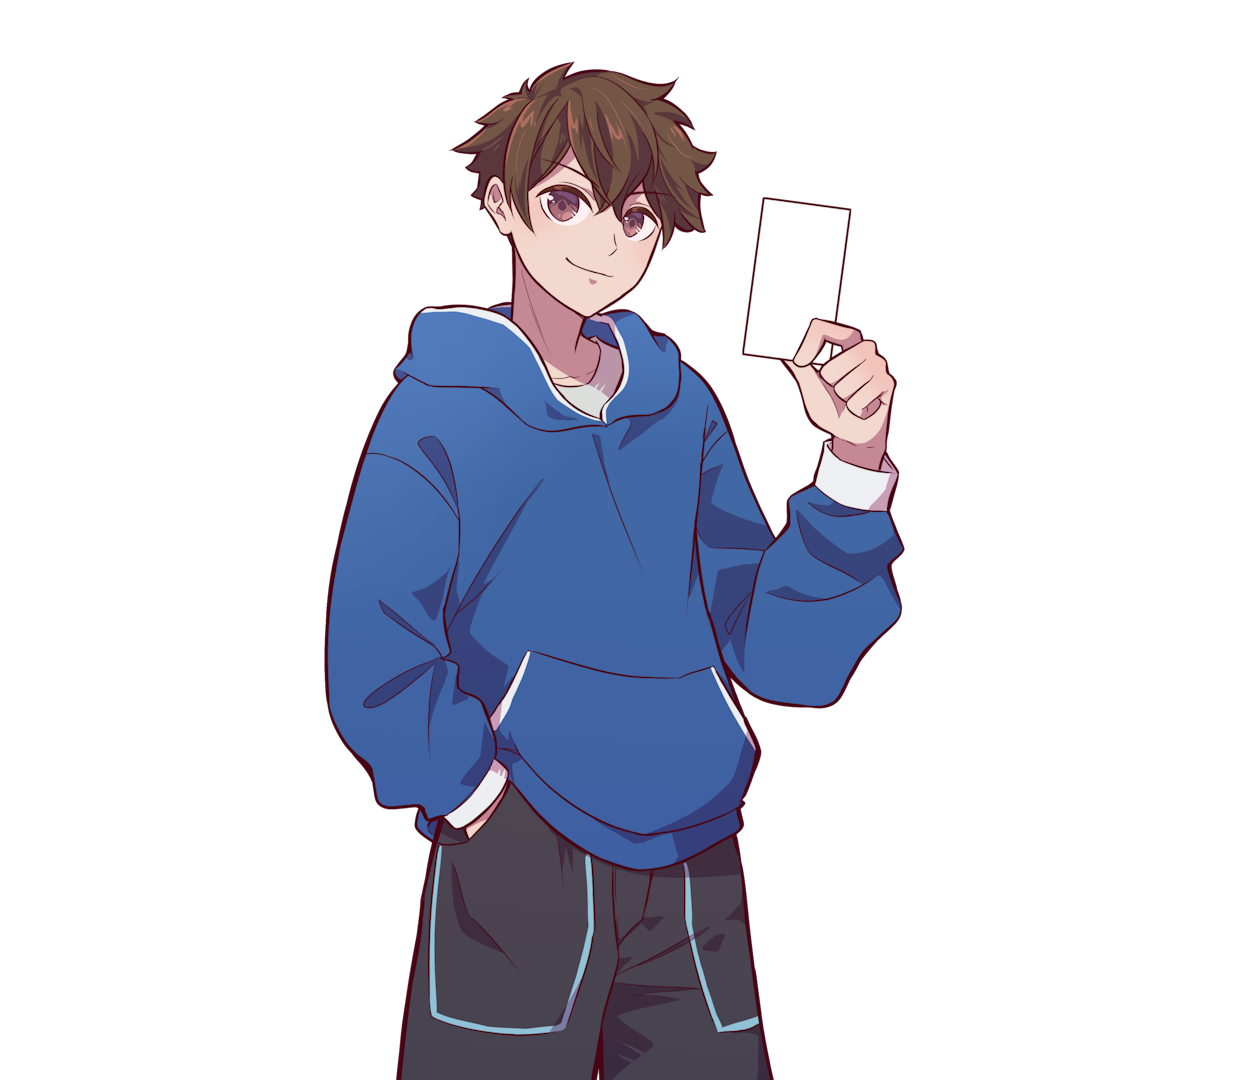
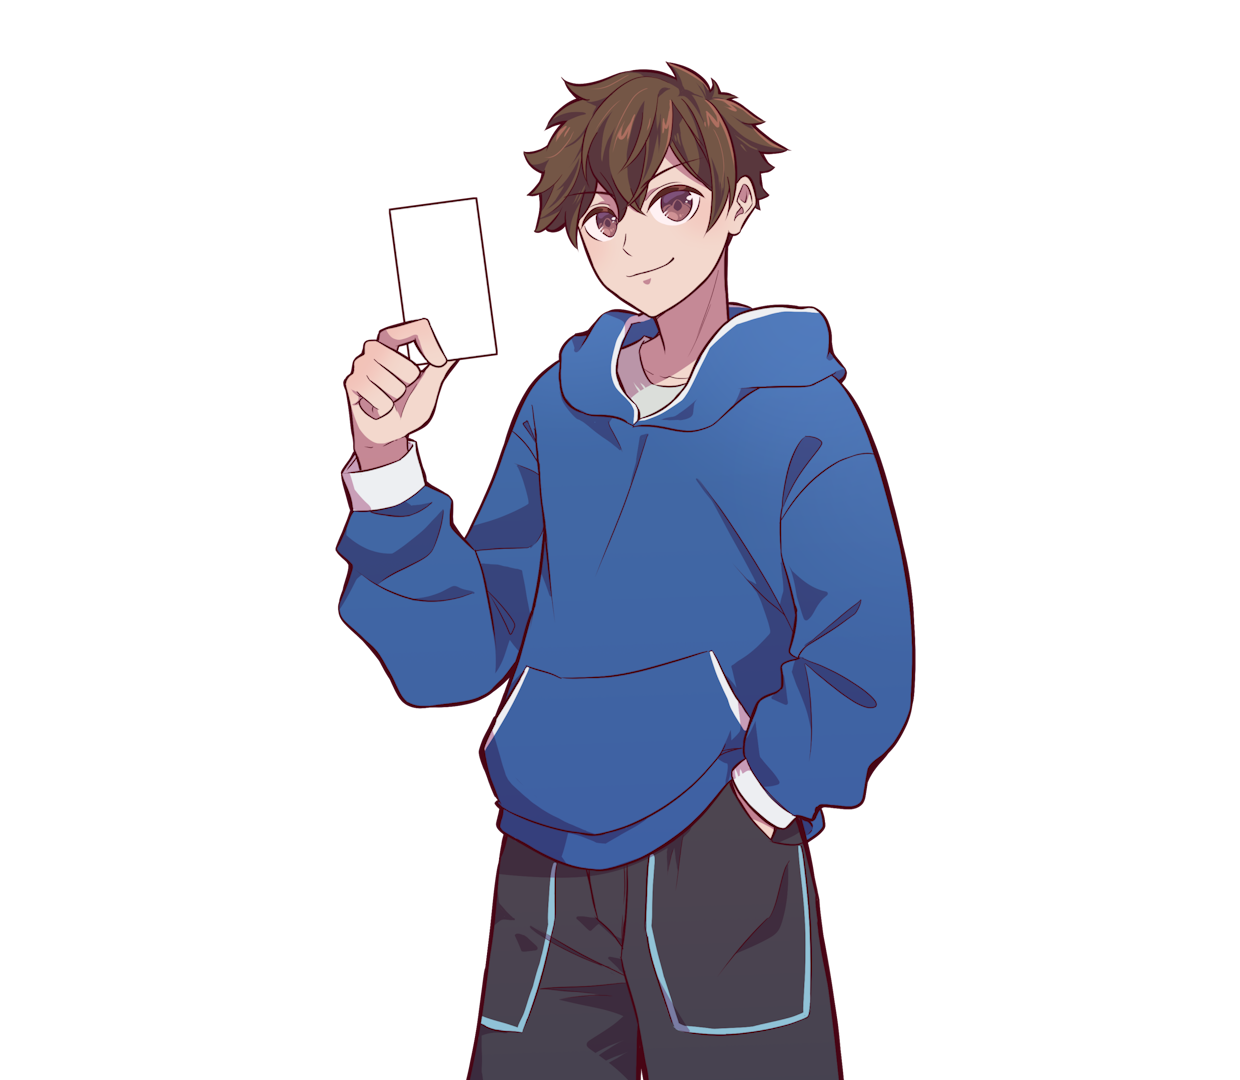
Added player select Scene

Changed region(s): [[0.2452, 0.0611, 0.7355, 1.0], [0.3065, 0.1833, 0.3371, 0.2139]]

diff --git a/js/plugins/KamigamiSelectPlayer.js b/js/plugins/KamigamiSelectPlayer.js
@@ -20,14 +20,25 @@ Scene_Kamigami_Select_Player.prototype.constructor = Scene_Kamigami_Select_Playe
 //-----------------------------------------------------------------------------
 Scene_Kamigami_Select_Player.prototype.initialize = function () {
     Scene_Base.prototype.initialize.call(this);
+    this.createVariables();
     this.createBackground();
     this.createBgPanels();
+    this.createPlayersBlack();
     this.createPlayers();
     this.createButtonBack();
     this.createMenuLight();
     this.createMenuOptions();
     this.createText();
     this.createNameInput();
+    this.createEditButton();
+}
+//-----------------------------------------------------------------------------
+// Function : create
+//-----------------------------------------------------------------------------
+Scene_Kamigami_Select_Player.prototype.createVariables = function () {
+    this.phase = 1;
+    this.selectedPlayer = 0;
+    this.countFrame = 0;
 }
 //-----------------------------------------------------------------------------
 // Function : create
@@ -53,26 +64,44 @@ Scene_Kamigami_Select_Player.prototype.createBgPanels = function () {
 //-----------------------------------------------------------------------------
 // Function : create
 //-----------------------------------------------------------------------------
-Scene_Kamigami_Select_Player.prototype.createPlayers = function () {
+Scene_Kamigami_Select_Player.prototype.createPlayersBlack = function () {
+
     this._playerContainer = new SContainer();
     this.addChild(this._playerContainer);
+    this._playersBlack = new Array();
+    for (let n = 0; n < 2; n++) {
+        this._playersBlack[n] = new Sprite();
+        this._playersBlack[n].bitmap = ImageManager.loadSelectPlayer(`player${n + 1}`);
+        this._playersBlack[n].x = 1200 + n * 300
+        this._playersBlack[n].filters = [new PIXI.filters.ColorOverlayFilter([0, 0, 0], [0, 0, 0], 0.001)];
+        this._playersBlack[n].anchor.x = 0.5
+        //this._players[n].filters[0].color = "#FFFFFF"
+        this._playerContainer.addChild(this._playersBlack[n]);
+    }
+    this._playersBlack[1].scale.x = -1
+}
+//-----------------------------------------------------------------------------
+// Function : create
+//-----------------------------------------------------------------------------
+Scene_Kamigami_Select_Player.prototype.createPlayers = function () {
     this._players = new Array();
     for (let n = 0; n < 2; n++) {
         this._players[n] = new Sprite();
         this._players[n].bitmap = ImageManager.loadSelectPlayer(`player${n + 1}`);
-        this._players[n].x = 600 + n * 300
-        this._playerContainer.addChild(this._players[n]);
+        this._players[n].x = 1200
+        this._players[n].anchor.x = 0.5
+        //this._players[n].filters[0].color = "#FFFFFF"
+        this.addChild(this._players[n]);
     }
-    this._players[0].zOrder = 1
-    this._playerContainer.sortChildren();
+    this._players[1].opacity = 0
 }
 //-----------------------------------------------------------------------------
 // Function : createMenuOptions
 //-----------------------------------------------------------------------------
 Scene_Kamigami_Select_Player.prototype.createMenuLight = function () {
-    this._textSelectLight = new Sprite_Kami_ButtonLight(0, "selectPlayer1", 70);
+    this._textSelectLight = new Sprite_Kami_ButtonLight(0, "selectPlayer1", 70, 0x19FF47);
     this.addChild(this._textSelectLight);
-    this._textSwitchLight = new Sprite_Kami_ButtonLight(0, "selectPlayer2", 70);
+    this._textSwitchLight = new Sprite_Kami_ButtonLight(0, "selectPlayer2", 70, 0x19FF47);
     this._textSwitchLight.y = 1080 - 257
     this.addChild(this._textSwitchLight);
 
@@ -109,7 +138,7 @@ Scene_Kamigami_Select_Player.prototype.createButtonBack = function () {
 // Function : create
 //-----------------------------------------------------------------------------
 Scene_Kamigami_Select_Player.prototype.createText = function () {
-    this._descriptionSelectPlayer = new PIXI.Text("", { fontFamily: 'GameFont', fontSize: 46, fill: 0xffffff, align: 'left', bold: true, dropShadow: true, dropShadowBlur: 3});
+    this._descriptionSelectPlayer = new PIXI.Text("", { fontFamily: 'GameFont', fontSize: 46, fill: 0xffffff, align: 'left', bold: true, dropShadow: true, dropShadowBlur: 6 });
     this._descriptionSelectPlayer.text = IAVRA.I18N.localize("#{DuelVocab.MenuText.selectPlayer}")
     this.addChild(this._descriptionSelectPlayer);
     this._descriptionSelectPlayer.y = 300
@@ -139,18 +168,139 @@ Scene_Kamigami_Select_Player.prototype.createNameInput = function () {
     chatInput.setInputStyle('fontWeight', 'normal')
     chatInput.setInputStyle('padding', 14 + 'px')
     chatInput.placeholder = 'Player Name!'
-    chatInput.x = 110
-    chatInput.y = 10
+    chatInput.x = 210
+    chatInput.y = 500
     chatInput.text = "";
-    chatInput.alpha = 0;
+    chatInput.alpha = 1;
+    chatInput.select();
     //chatInput.pivot.x = chatInput.width / 2
     //chatInput.pivot.y = chatInput.height / 2
     this.addChild(chatInput)
 }
+
+//-----------------------------------------------------------------------------
+// Function : createEditButton
+//-----------------------------------------------------------------------------
+Scene_Kamigami_Select_Player.prototype.createEditButton = function () {
+    this.btnEdit = new Sprite_Clickable();
+    this.btnEdit.bitmap = ImageManager.loadSelectPlayer("btnEdit");
+    this.addChild(this.btnEdit);
+    this.btnEdit.x = 100
+    this.btnEdit.y = 502
+
+}
+
+
 //-----------------------------------------------------------------------------
 // Function : create
 //-----------------------------------------------------------------------------
 Scene_Kamigami_Select_Player.prototype.update = function () {
     Scene_Base.prototype.update.call(this);
+    this.countFrame++;
+    switch (this.phase) {
+        case 0:
+
+            break;
+
+        case 1:
+            this.updateMainScene();
+            break;
+        case 2:
+            this.switchPlayers();
+            break;
+    }
 }
+
+//-----------------------------------------------------------------------------
+// Function : updateMainScene
+//-----------------------------------------------------------------------------
+Scene_Kamigami_Select_Player.prototype.updateMainScene = function () {
+    if (this.btnEdit.isBeingTouched()) {
+        this.btnEdit.opacity = 255;
+    } else {
+        this.btnEdit.opacity = 180
+    }
+    let btnHover = this.updateButtons();
+    if (TouchInput.isTriggered()) {
+        if (this.btnEdit.isBeingTouched()) {
+            chatInput.select();
+            return;
+        }
+        if (btnHover != 0)
+            this.checkButton(btnHover);
+    }
+}
+
+//-----------------------------------------------------------------------------
+// Function : updateButtons
+//-----------------------------------------------------------------------------
+Scene_Kamigami_Select_Player.prototype.updateButtons = function () {
+    let btnHover = 0
+    if (this._textSelect.isButtonHovered() || this._textSelect.isBeingTouched()) {
+        this._textSelectLight.opacity += 20;
+        btnHover = 1;
+    } else
+        this._textSelectLight.opacity -= 20;
+    if (this._textSwitch.isButtonHovered() || this._textSwitch.isBeingTouched()) {
+        this._textSwitchLight.opacity += 20;
+        btnHover = 2;
+    } else
+        this._textSwitchLight.opacity -= 20;
+    return btnHover;
+}
+//-----------------------------------------------------------------------------
+// Function : checkButton
+//-----------------------------------------------------------------------------
+Scene_Kamigami_Select_Player.prototype.checkButton = function (btnHover) {
+    switch (btnHover) {
+        case 1:
+            
+            break;
+    
+        case 2:
+            this.phase = 2;
+            this.countFrame = 0;
+            this.selectedPlayer = 1 - this.selectedPlayer
+            break;
+    }
+}
+
+//-----------------------------------------------------------------------------
+// Function : switchPlayers
+//-----------------------------------------------------------------------------
+Scene_Kamigami_Select_Player.prototype.switchPlayers = function () {
+    let oldPlayer = this._players[1 - this.selectedPlayer]
+    let newPlayer = this._players[this.selectedPlayer]
+    let oldPlayerShadow = this._playersBlack[1 - this.selectedPlayer]
+    let newPlayerShadow = this._playersBlack[this.selectedPlayer]
+    if (oldPlayer.opacity > 0){
+        oldPlayer.opacity -= 20
+        this.countFrame = 0;
+        return;
+    }
+    if (this.countFrame < 25) {
+        oldPlayerShadow.x += (25 - this.countFrame)
+        if (oldPlayerShadow.scale.x > -1) {
+            oldPlayerShadow.scale.x -= 0.1
+            if (oldPlayerShadow.scale.x < -1) {
+                oldPlayerShadow.scale.x = -1
+            }
+        }
+        if (newPlayerShadow.scale.x < 1) {
+            newPlayerShadow.scale.x += 0.1
+            if (newPlayerShadow.scale.x > 1) {
+                newPlayerShadow.scale.x = 1
+            }
+        }
+        newPlayerShadow.x -= (25 - this.countFrame)
+        return;
+    }
+    if (newPlayer.opacity < 255){
+        newPlayer.opacity += 20
+        return;
+    }
+    this.phase = 1;
+}
+
+
 
